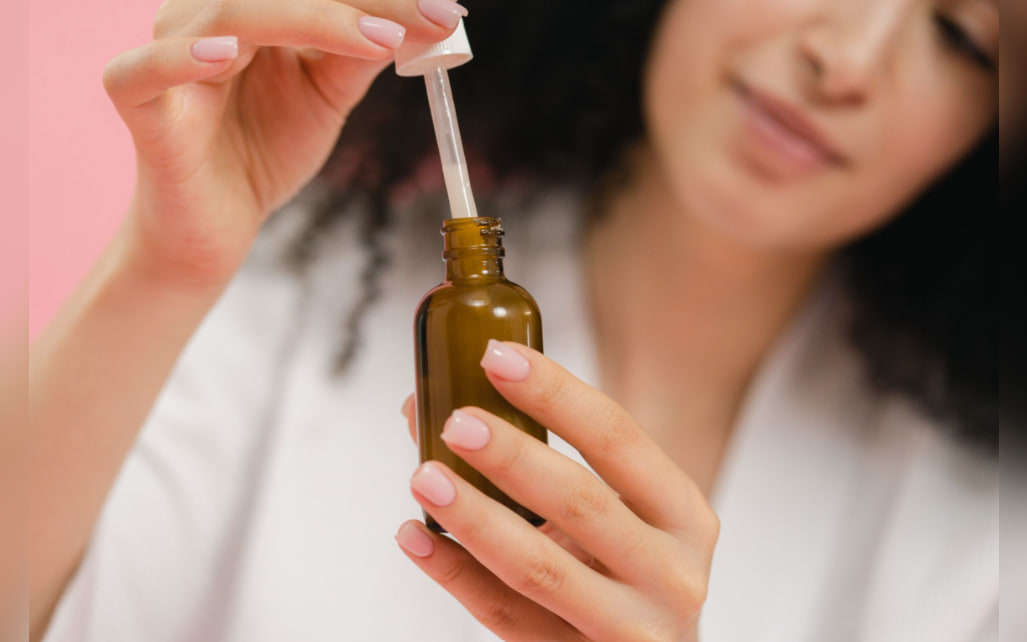
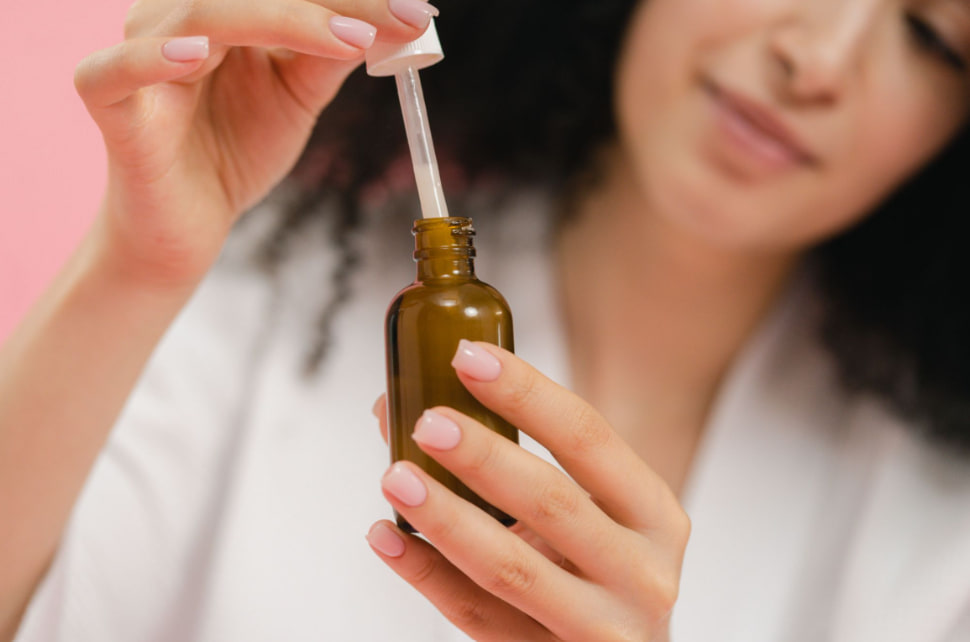
Show the two posts' heroes at the photograph's own ratio
The blurred side padding is gone, and so is the reason it existed. Both
featured images are back to the supplied crops - 1067x772 and 970x642 -
with nothing added to the canvas.

The padding was there because the hero renders into a box fixed at
aspect-ratio: 16/10 under object-fit: cover, which crops anything shot
at another ratio. Padding the file to 16:10 avoided the crop but put
bands either side. The better answer is for the box to take its shape
from the picture: a post that declares featuredImageWidth and
featuredImageHeight now gets a hero sized from the image itself, so it
spans the column and derives its height from its own ratio - no crop,
and no band to fill either.

Opt-in through those two fields rather than a change to the shared box.
The 16:10 hero is what the other ~150 posts are composed around, and
making natural ratio the default would have altered every one of those
pages. Verified that the reference post and another existing post render
exactly as before.

SafeImage gained an intrinsic mode for this: pass width and height and
it sizes from the source instead of filling a caller-shaped box, keeping
the same broken-image fallback and the same tint while the pixels are in
flight. object-fit is deliberately not applied there - it only means
something inside a box shaped by someone else.

Verified at 360, 390, 768 and 1280: both heroes render at 1.382 and
1.510, matching their sources, with no letterbox, no crop and no
[…]

diff --git a/components/shared/SafeImage.tsx b/components/shared/SafeImage.tsx
@@ -27,14 +27,26 @@ export default function SafeImage({
   alt,
   sizes,
   priority = false,
+  width,
+  height,
 }: {
   src: string;
   alt: string;
   /** Layout width at each breakpoint, so the optimiser ships the right size. */
   sizes: string;
   priority?: boolean;
+  /**
+   * The source's own pixel dimensions. Pass both to size the image from the
+   * picture itself instead of filling a box the caller has shaped - the
+   * caller then gets the image's real aspect ratio, with nothing cropped and
+   * no empty band to fill. Omit both for the usual `fill` behaviour, where
+   * the caller reserves the ratio and the photo covers it.
+   */
+  width?: number;
+  height?: number;
 }) {
   const [failed, setFailed] = useState(false);
+  const intrinsic = width !== undefined && height !== undefined;
 
   if (failed) {
     return (
@@ -50,6 +62,24 @@ export default function SafeImage({
           <circle cx="24" cy="14" r="6" fill="currentColor" />
         </svg>
       </span>
+    );
+  }
+
+  if (intrinsic) {
+    return (
+      <Image
+        src={src}
+        alt={alt}
+        width={width}
+        height={height}
+        sizes={sizes}
+        priority={priority}
+        /* Not styles.img: that sets object-fit: cover, which only means
+           anything inside a box shaped by someone else. Here the element is
+           the shape, so it just fills the column and keeps its own ratio. */
+        className={styles.intrinsic}
+        onError={() => setFailed(true)}
+      />
     );
   }
 

diff --git a/app/blog/[slug]/page.tsx b/app/blog/[slug]/page.tsx
@@ -199,13 +199,25 @@ export default async function BlogPostPage({
         {/* Article content + sidebar */}
         <div className={`container ${styles.blogLayout}`}>
           <article className={styles.blogMain}>
+            {/* A post that declares its featured image's dimensions gets a
+                hero at that image's own ratio; everything else keeps the
+                16:10 box the other posts are composed around. See
+                featuredImageWidth in lib/mdx.ts for why this is opt-in. */}
             {frontmatter.featuredImage && (
-              <div className={styles.blogFeaturedImg}>
+              <div
+                className={
+                  frontmatter.featuredImageWidth && frontmatter.featuredImageHeight
+                    ? styles.blogFeaturedImgNatural
+                    : styles.blogFeaturedImg
+                }
+              >
                 <SafeImage
                   src={frontmatter.featuredImage}
                   alt={frontmatter.title}
                   sizes="(max-width: 960px) 100vw, 760px"
                   priority
+                  width={frontmatter.featuredImageWidth}
+                  height={frontmatter.featuredImageHeight}
                 />
               </div>
             )}

diff --git a/app/blog/[slug]/page.module.css b/app/blog/[slug]/page.module.css
@@ -21,6 +21,13 @@
 .blogLayout { display: grid; grid-template-columns: minmax(0, 1fr) 340px; gap: clamp(1.5rem, 4vw, 3rem); align-items: start; padding: 3rem 1.5rem 2rem; }
 .blogMain { min-width: 0; max-width: 80ch; }
 .blogFeaturedImg { border-radius: var(--tp-radius-xl); overflow: hidden; box-shadow: var(--tp-shadow-md); aspect-ratio: 16/10; position: relative; margin-bottom: 2rem; }
+/* Same frame, but with no ratio of its own: the image inside carries its
+   width and height, so the box takes its shape from the photograph. Nothing
+   is cropped to fit a ratio, and there is no leftover band to fill.
+   line-height: 0 because the image is an inline-level box by default, and the
+   strut under it would otherwise show as a sliver of background below the
+   photo inside the rounded frame. */
+.blogFeaturedImgNatural { border-radius: var(--tp-radius-xl); overflow: hidden; box-shadow: var(--tp-shadow-md); line-height: 0; margin-bottom: 2rem; }
 /* Sticky, but never taller than the space left beneath its own offset.
    Without the cap a sidebar taller than the viewport is not merely clipped,
    it is unreachable: sticky pins the top, so scrolling the page can never

diff --git a/lib/mdx.ts b/lib/mdx.ts
@@ -117,6 +117,21 @@ export interface PostFrontmatter {
   modified: string;
   postType: string;
   featuredImage?: string;
+  /**
+   * The featured image's own pixel dimensions, set together.
+   *
+   * A blog post's hero normally renders into a fixed 16:10 box under
+   * object-fit: cover, which crops any photograph shot at another ratio.
+   * Giving both of these instead renders the hero at the image's own ratio -
+   * nothing cropped, and no letterboxing either, because the box takes its
+   * height from the picture rather than the other way round.
+   *
+   * Opt-in rather than the default: the 16:10 hero is what the other ~150
+   * posts are composed around, and switching them all to their own ratios
+   * would change every one of those pages.
+   */
+  featuredImageWidth?: number;
+  featuredImageHeight?: number;
   heroImage?: string;
   excerpt?: string;
   categories?: string[];

diff --git a/components/shared/SafeImage.module.css b/components/shared/SafeImage.module.css
@@ -35,3 +35,16 @@
   color: transparent;
   background: linear-gradient(150deg, var(--tp-lavender-100), var(--tp-lavender-050));
 }
+
+/* Intrinsic mode: the image carries its own width/height, so it is the thing
+   being shaped rather than something filling a shape. It spans the column and
+   derives its height from its own ratio - no crop, and no empty band either.
+   The tint carries over from .img for the same reason it exists there: a
+   window where the box is laid out but the pixels have not arrived. */
+.intrinsic {
+  display: block;
+  width: 100%;
+  height: auto;
+  color: transparent;
+  background: linear-gradient(150deg, var(--tp-lavender-100), var(--tp-lavender-050));
+}
